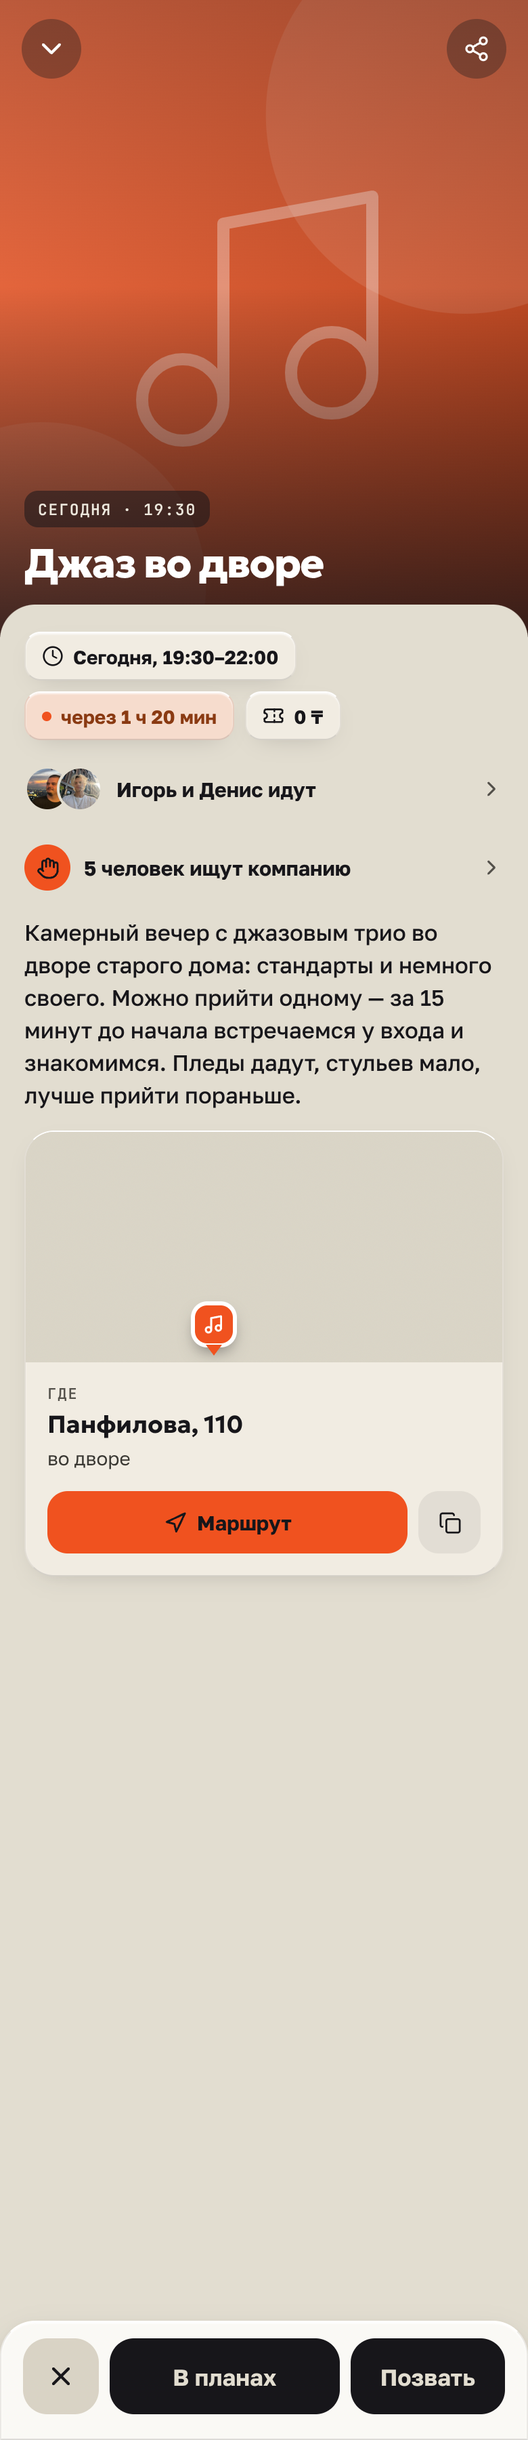
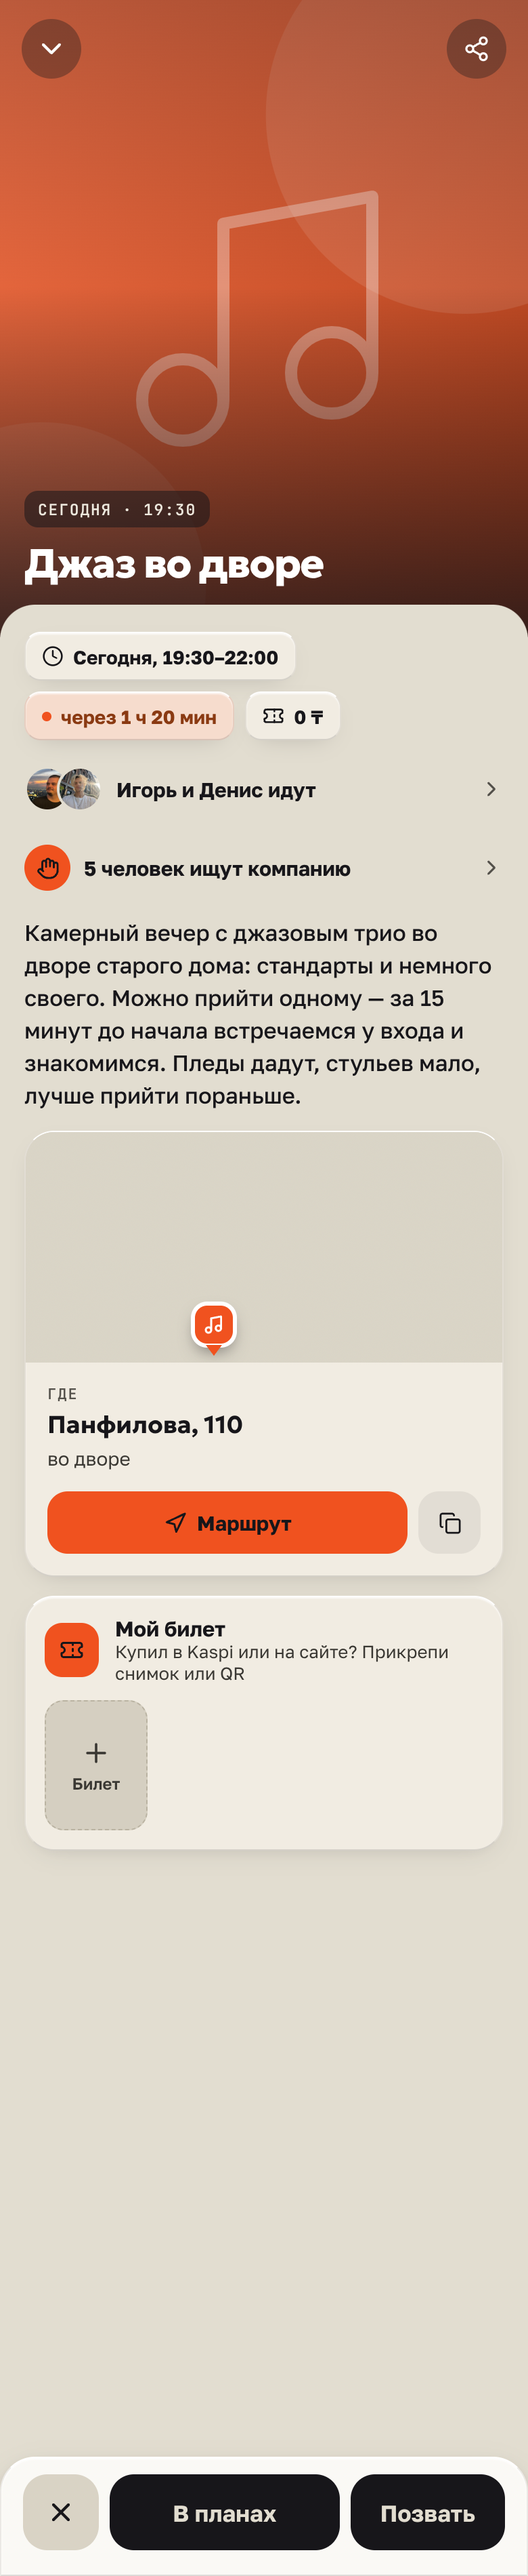
«Поделиться» картинкой: карточка события с фото, датой, местом, ценой, описанием и значком Meets — отправляется системным меню; без мессенджеров по списку. Исправлен вылет карточки события из-за «Моего билета»
Claude-Session: https://claude.ai/code/session_01MmmfyTorn432WrhFNErMA4

diff --git a/src/event/ui/ShareCard.tsx b/src/event/ui/ShareCard.tsx
@@ -1,0 +1,120 @@
+// «Поделиться» картинкой (21 октября): вместо выбора мессенджера — красивая карточка события.
+// Фото, дата и время, где, цена, пара строк описания, а внизу — значок и надпись Meets со ссылкой: тот, кому прислали,
+// видит событие целиком и узнаёт приложение. Отправка — системным меню телефона (WhatsApp, Telegram, Instagram…).
+import * as Clipboard from 'expo-clipboard';
+import { Clock, Copy, MapPin, Send, Ticket } from 'lucide-react-native';
+import { useRef, useState } from 'react';
+import { Image, Platform, Pressable, Share, StyleSheet, Text, View } from 'react-native';
+import Svg, { Defs, LinearGradient, Rect, Stop } from 'react-native-svg';
+import type { EventItem } from '../../data/types';
+import { CAT_LABEL } from '../../map/icons';
+import { stampOf } from '../../map/ui/EventSheet';
+import { colors, fonts } from '../../theme';
+import { EventCover } from '../../ui/EventCover';
+import { eventFacts } from '../facts';
+
+const W = 340, H = 460;
+
+type Shot = { captureRef: (ref: unknown, opts: object) => Promise<string> };
+type Sharing = { isAvailableAsync: () => Promise<boolean>; shareAsync: (uri: string, opts?: object) => Promise<void> };
+// Нативных модулей нет в старой APK — тогда отправляем ссылку текстом, как раньше.
+function native(): { shot: Shot; sharing: Sharing } | null {
+  if (Platform.OS === 'web') return null;
+  try {
+    /* eslint-disable @typescript-eslint/no-require-imports */
+    return { shot: require('react-native-view-shot') as Shot, sharing: require('expo-sharing') as Sharing };
+    /* eslint-enable @typescript-eslint/no-require-imports */
+  } catch { return null; }
+}
+
+/** Сама карточка — её же снимаем в картинку 3× (1020×1380). */
+export function ShareCard({ e, now, link }: { e: EventItem; now: Date; link: string }) {
+  const f = eventFacts(e);
+  return (
+    <View style={styles.card} collapsable={false}>
+      <EventCover cover={e.cover} category={e.category} color={e.coverColor} style={{ height: H * 0.5 }} iconSize={150}>
+        <Svg style={StyleSheet.absoluteFill} width="100%" height="100%" preserveAspectRatio="none">
+          <Defs><LinearGradient id="shareShade" x1="0" y1="0" x2="0" y2="1"><Stop offset="0.45" stopColor="#17161A" stopOpacity={0} /><Stop offset="1" stopColor="#17161A" stopOpacity={0.55} /></LinearGradient></Defs>
+          <Rect x="0" y="0" width="100%" height="100%" fill="url(#shareShade)" />
+        </Svg>
+        <View style={styles.cat}><Text style={styles.catText}>{CAT_LABEL[e.category]}</Text></View>
+        <View style={styles.stamp}><Text style={styles.stampText}>{stampOf(e, now)}</Text></View>
+      </EventCover>
+      <View style={styles.body}>
+        <Text style={styles.title} numberOfLines={2}>{e.title}</Text>
+        <View style={styles.fact}><Clock size={14} color={colors.ink} strokeWidth={2} /><Text style={styles.factText} numberOfLines={1}>{f.when}</Text></View>
+        <View style={styles.fact}><MapPin size={14} color={colors.ink} strokeWidth={2} /><Text style={styles.factText} numberOfLines={1}>{f.place}</Text></View>
+        <View style={styles.fact}><Ticket size={14} color={colors.ink} strokeWidth={2} /><Text style={[styles.factText, { fontFamily: fonts.body700 }]} numberOfLines={1}>{f.price}</Text></View>
+        {!!e.about.trim() && <Text style={styles.about} numberOfLines={2}>{e.about.trim()}</Text>}
+      </View>
+      <View style={styles.brand}>
+        <Image source={require('../../../assets/icon/icon.png')} style={styles.logo} />
+        <View style={{ flex: 1 }}>
+          <Text style={styles.brandName}>Meets</Text>
+          <Text style={styles.brandSub} numberOfLines={1}>события Алматы и друзья рядом · {link.replace(/^https?:\/\//, '')}</Text>
+        </View>
+      </View>
+    </View>
+  );
+}
+
+/** Шторка «Поделиться»: превью картинки, «Отправить» и «Скопировать ссылку». */
+export function ShareCardSheet({ e, now, link, text, onDone }: { e: EventItem; now: Date; link: string; text: string; onDone: (msg?: string) => void }) {
+  const ref = useRef<View>(null);
+  const [busy, setBusy] = useState(false);
+  const send = async () => {
+    if (busy) return;
+    setBusy(true);
+    const n = native();
+    try {
+      if (n && (await n.sharing.isAvailableAsync())) {
+        const uri = await n.shot.captureRef(ref, { format: 'png', quality: 1, result: 'tmpfile', width: W * 3, height: H * 3 });
+        await n.sharing.shareAsync(uri, { mimeType: 'image/png', dialogTitle: e.title, UTI: 'public.png' });
+        onDone();
+        return;
+      }
+    } catch { /* снимок не получился — отправим ссылкой */ }
+    finally { setBusy(false); }
+    await Share.share({ message: `${text} ${link}` }).catch(() => undefined);
+    onDone();
+  };
+  return (
+    <View style={{ gap: 14, alignItems: 'center' }}>
+      <Text style={styles.sheetTitle} accessibilityRole="header">Поделиться</Text>
+      <View ref={ref} collapsable={false} style={styles.shadow}><ShareCard e={e} now={now} link={link} /></View>
+      <View style={styles.actions}>
+        <Pressable onPress={() => void send()} style={({ pressed }) => [styles.btn, styles.main, pressed && styles.pressed]} accessibilityRole="button" accessibilityLabel="Отправить картинку события">
+          <Send size={18} color={colors.ink} strokeWidth={2.2} /><Text style={styles.btnText}>{busy ? 'Готовлю картинку…' : 'Отправить'}</Text>
+        </Pressable>
+        <Pressable onPress={() => { void Clipboard.setStringAsync(`${text} ${link}`).then(() => onDone('Ссылка скопирована')); }} style={({ pressed }) => [styles.btn, styles.square, pressed && styles.pressed]} accessibilityRole="button" accessibilityLabel="Скопировать ссылку">
+          <Copy size={18} color={colors.ink} strokeWidth={2} />
+        </Pressable>
+      </View>
+    </View>
+  );
+}
+
+const styles = StyleSheet.create({
+  sheetTitle: { alignSelf: 'flex-start', fontFamily: fonts.display700, fontSize: 22, color: colors.ink },
+  shadow: { borderRadius: 26, boxShadow: '0 18px 36px -18px rgba(23,22,26,0.55)' },
+  card: { width: W, height: H, borderRadius: 26, overflow: 'hidden', backgroundColor: '#F3EFE6' },
+  cat: { position: 'absolute', left: 14, top: 14, paddingHorizontal: 10, paddingVertical: 5, borderRadius: 10, backgroundColor: 'rgba(255,255,255,0.75)' },
+  catText: { fontFamily: fonts.mono600, fontSize: 10, letterSpacing: 0.9, color: colors.ink },
+  stamp: { position: 'absolute', left: 14, bottom: 12, paddingHorizontal: 10, paddingVertical: 5, borderRadius: 10, backgroundColor: 'rgba(23,22,26,0.55)' },
+  stampText: { fontFamily: fonts.mono600, fontSize: 10.5, letterSpacing: 0.8, color: '#EEE9DE' },
+  body: { flex: 1, paddingHorizontal: 16, paddingTop: 12, gap: 6 },
+  title: { fontFamily: fonts.display800, fontSize: 21, lineHeight: 24, letterSpacing: -0.5, color: colors.ink, marginBottom: 2 },
+  fact: { flexDirection: 'row', alignItems: 'center', gap: 7 },
+  factText: { flex: 1, fontFamily: fonts.body600, fontSize: 13, color: colors.ink },
+  about: { fontFamily: fonts.body400, fontSize: 12, lineHeight: 16, color: colors.muted2, marginTop: 2 },
+  brand: { flexDirection: 'row', alignItems: 'center', gap: 10, paddingHorizontal: 14, paddingVertical: 11, backgroundColor: colors.ink },
+  logo: { width: 34, height: 34, borderRadius: 9 },
+  brandName: { fontFamily: fonts.display800, fontSize: 17, letterSpacing: -0.3, color: '#FFFFFF' },
+  brandSub: { fontFamily: fonts.body500, fontSize: 10.5, color: '#BDB8AD' },
+  actions: { flexDirection: 'row', gap: 8, alignSelf: 'stretch' },
+  btn: { flexDirection: 'row', gap: 8, height: 54, borderRadius: 17, backgroundColor: '#EDE8DD', alignItems: 'center', justifyContent: 'center' },
+  main: { flex: 1, backgroundColor: colors.accent },
+  square: { width: 54 },
+  btnText: { fontFamily: fonts.body700, fontSize: 16, color: colors.ink },
+  pressed: { transform: [{ scale: 0.97 }] },
+});

diff --git a/src/event/share.ts b/src/event/share.ts
@@ -1,7 +1,5 @@
-// «Поделиться» событием: ссылка на событие в приложении и готовые ссылки для мессенджеров.
+// «Поделиться» событием: ссылка на событие и подпись. Сама отправка — картинкой (event/ui/ShareCard.tsx).
 import { APP_URL } from '../lib/config';
-
-export type ShareTarget = 'telegram' | 'whatsapp' | 'threads' | 'instagram';
 
 export function eventLink(id: string): string {
   return `${APP_URL}/event/${encodeURIComponent(id)}`;
@@ -9,20 +7,4 @@ export function eventLink(id: string): string {
 
 export function shareText(title: string, when: string): string {
   return `${title} — ${when}. Пойдём?`;
-}
-
-/** Куда открыть. Instagram не принимает текст по ссылке: копируем ссылку и открываем директ. */
-export function shareUrl(target: ShareTarget, text: string, link: string): string {
-  const t = encodeURIComponent(text);
-  const l = encodeURIComponent(link);
-  switch (target) {
-    case 'telegram':
-      return `https://t.me/share/url?url=${l}&text=${t}`;
-    case 'whatsapp':
-      return `https://wa.me/?text=${t}%20${l}`;
-    case 'threads':
-      return `https://www.threads.net/intent/post?text=${t}%20${l}`;
-    case 'instagram':
-      return 'https://www.instagram.com/direct/inbox/';
-  }
 }

diff --git a/src/event/ui/TicketBlock.tsx b/src/event/ui/TicketBlock.tsx
@@ -9,8 +9,10 @@ import { usePlans } from '../../state/plans';
 import { colors, fonts } from '../../theme';
 import { plate } from '../../ui/glass';
 
+const NONE: string[] = [];
+
 export function TicketBlock({ eventId }: { eventId: string }) {
-  const list = usePlans((s) => s.tickets?.[eventId] ?? []);
+  const list = usePlans((s) => s.tickets?.[eventId]) ?? NONE;
   const add = usePlans((s) => s.addTicket);
   const remove = usePlans((s) => s.removeTicket);
   const [full, setFull] = useState<string | null>(null);
